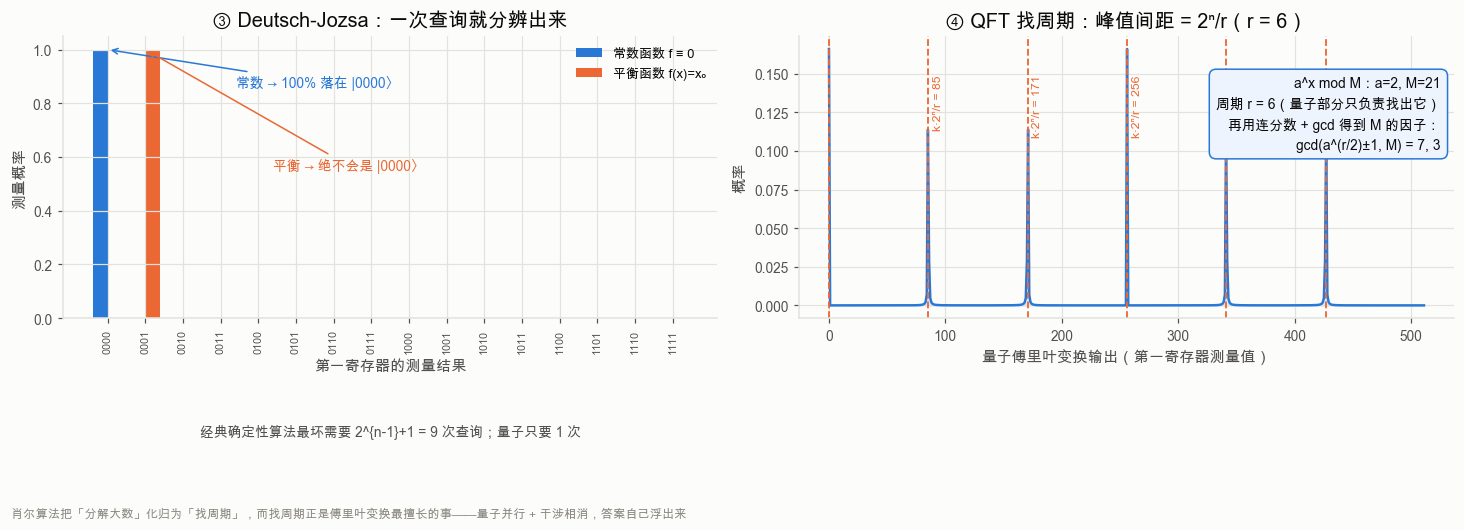
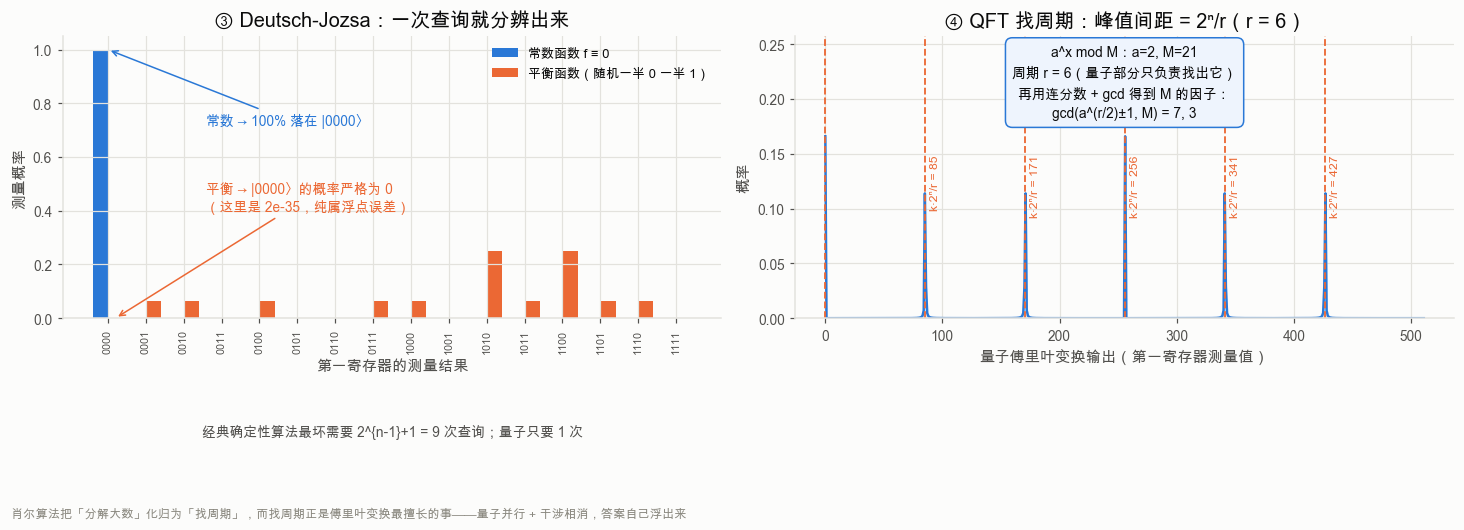
量子计算up

diff --git a/qhv/s08_computing.py b/qhv/s08_computing.py
@@ -85,8 +85,12 @@ def deutsch_jozsa(n: int, kind: str):
     xs = torch.arange(dim)
     if kind == "constant":
         fx = torch.zeros(dim, dtype=torch.long)
-    else:                                            # 平衡：f(x) = x 的最低位
-        fx = (xs & 1).long()
+    else:
+        # 随机平衡函数：一半输入映到 0，一半映到 1
+        g = torch.Generator().manual_seed(5)
+        perm = torch.randperm(dim, generator=g)
+        fx = torch.zeros(dim, dtype=torch.long)
+        fx[perm[: dim // 2]] = 1
     phase = torch.where(fx == 1, -1.0, 1.0).to(CT).reshape((2,) * n)
     psi = psi * phase.unsqueeze(-1)
     for i in range(n):
@@ -113,15 +117,16 @@ def fig_dj_and_qft():
     pb = deutsch_jozsa(n, "balanced").numpy()
     xpos = np.arange(2 ** n)
     ax.bar(xpos - 0.2, pc, width=0.4, color=C["blue"], label="常数函数 f ≡ 0")
-    ax.bar(xpos + 0.2, pb, width=0.4, color=C["orange"], label="平衡函数 f(x)=x₀")
+    ax.bar(xpos + 0.2, pb, width=0.4, color=C["orange"], label="平衡函数（随机一半 0 一半 1）")
     ax.set_xticks(xpos); ax.set_xticklabels(labels, rotation=90, fontsize=7)
     ax.set_ylabel("测量概率")
     ax.set_xlabel("第一寄存器的测量结果")
     ax.set_title("③ Deutsch-Jozsa：一次查询就分辨出来")
-    ax.annotate("常数 → 100% 落在 |0000〉", (0, pc[0]), xytext=(3.4, 0.86),
+    ax.annotate("常数 → 100% 落在 |0000〉", (0, pc[0]), xytext=(2.6, 0.72),
                 fontsize=9, color=C["blue"],
                 arrowprops=dict(arrowstyle="->", color=C["blue"], lw=1))
-    ax.annotate("平衡 → 绝不会是 |0000〉", (1, pb[1]), xytext=(4.4, 0.55),
+    ax.annotate(f"平衡 → |0000〉的概率严格为 0\n（这里是 {pb[0]:.0e}，纯属浮点误差）",
+                (0.2, 0.0), xytext=(2.6, 0.40),
                 fontsize=9, color=C["orange"],
                 arrowprops=dict(arrowstyle="->", color=C["orange"], lw=1))
     ax.text(0.5, -0.42, "经典确定性算法最坏需要 2^{n-1}+1 = 9 次查询；量子只要 1 次",
@@ -151,16 +156,17 @@ def fig_dj_and_qft():
         if k:
             ax.text(pk + 4, prob.max() * 0.9, f"k·2ⁿ/r = {pk:.0f}", fontsize=8,
                     color=C["orange"], rotation=90, va="top")
+    ax.set_ylim(0, prob.max() * 1.55)
     ax.set_xlabel("量子傅里叶变换输出（第一寄存器测量值）")
     ax.set_ylabel("概率")
     ax.set_title(f"④ QFT 找周期：峰值间距 = 2ⁿ/r（r = {r}）")
-    ax.text(0.98, 0.60,
+    ax.text(0.5, 0.97,
             f"a^x mod M：a={a}, M={M}\n"
             f"周期 r = {r}（量子部分只负责找出它）\n"
             f"再用连分数 + gcd 得到 M 的因子：\n"
             f"gcd(a^(r/2)±1, M) = {math.gcd(pow(a, r // 2, M) - 1, M)}, "
             f"{math.gcd(pow(a, r // 2, M) + 1, M)}",
-            transform=ax.transAxes, ha="right", fontsize=9, color=INK,
+            transform=ax.transAxes, ha="center", va="top", fontsize=9, color=INK,
             bbox=dict(boxstyle="round,pad=0.5", fc="#eef4fd", ec=C["blue"], lw=1),
             linespacing=1.5)
     print(f"  QFT 找周期：a={a}, M={M} → r={r}，因子 = "
@@ -230,7 +236,7 @@ def fig_grover():
             label="经典随机试探（同样的查询次数）")
     ax.axvline(opt, color=C["red"], ls=":", lw=1.6)
     ax.annotate(f"最优迭代次数 ≈ (π/4)√N = {opt}\n此时 P = {probs[opt][marked]:.4f}",
-                xy=(opt, probs[opt][marked]), xytext=(opt + 6, 0.62),
+                xy=(opt, probs[opt][marked]), xytext=(opt + 4, 0.46),
                 fontsize=9.5, color=C["red"],
                 arrowprops=dict(arrowstyle="->", color=C["red"], lw=1))
     ax.text(2 * opt - 2, 0.10, "继续转就转过头了\n（振幅是旋转，不是单调增长）",
@@ -248,7 +254,7 @@ def fig_grover():
     ax.set_xlabel("数据库规模 n（比特）"); ax.set_ylabel("查询次数（对数轴）")
     ax.set_title("⑥ 平方加速")
     ax.legend(fontsize=8.5)
-    ax.text(0.04, 0.06, "n=40：经典 5×10¹¹ 次\n格罗弗 8×10⁵ 次",
+    ax.text(0.04, 0.72, "n=40：经典 5×10¹¹ 次\n格罗弗 8×10⁵ 次",
             transform=ax.transAxes, fontsize=9, color=INK_2)
 
     print(f"  格罗弗：N={N}，最优迭代 {opt} 次后命中概率 = {probs[opt][marked]:.4f}")
